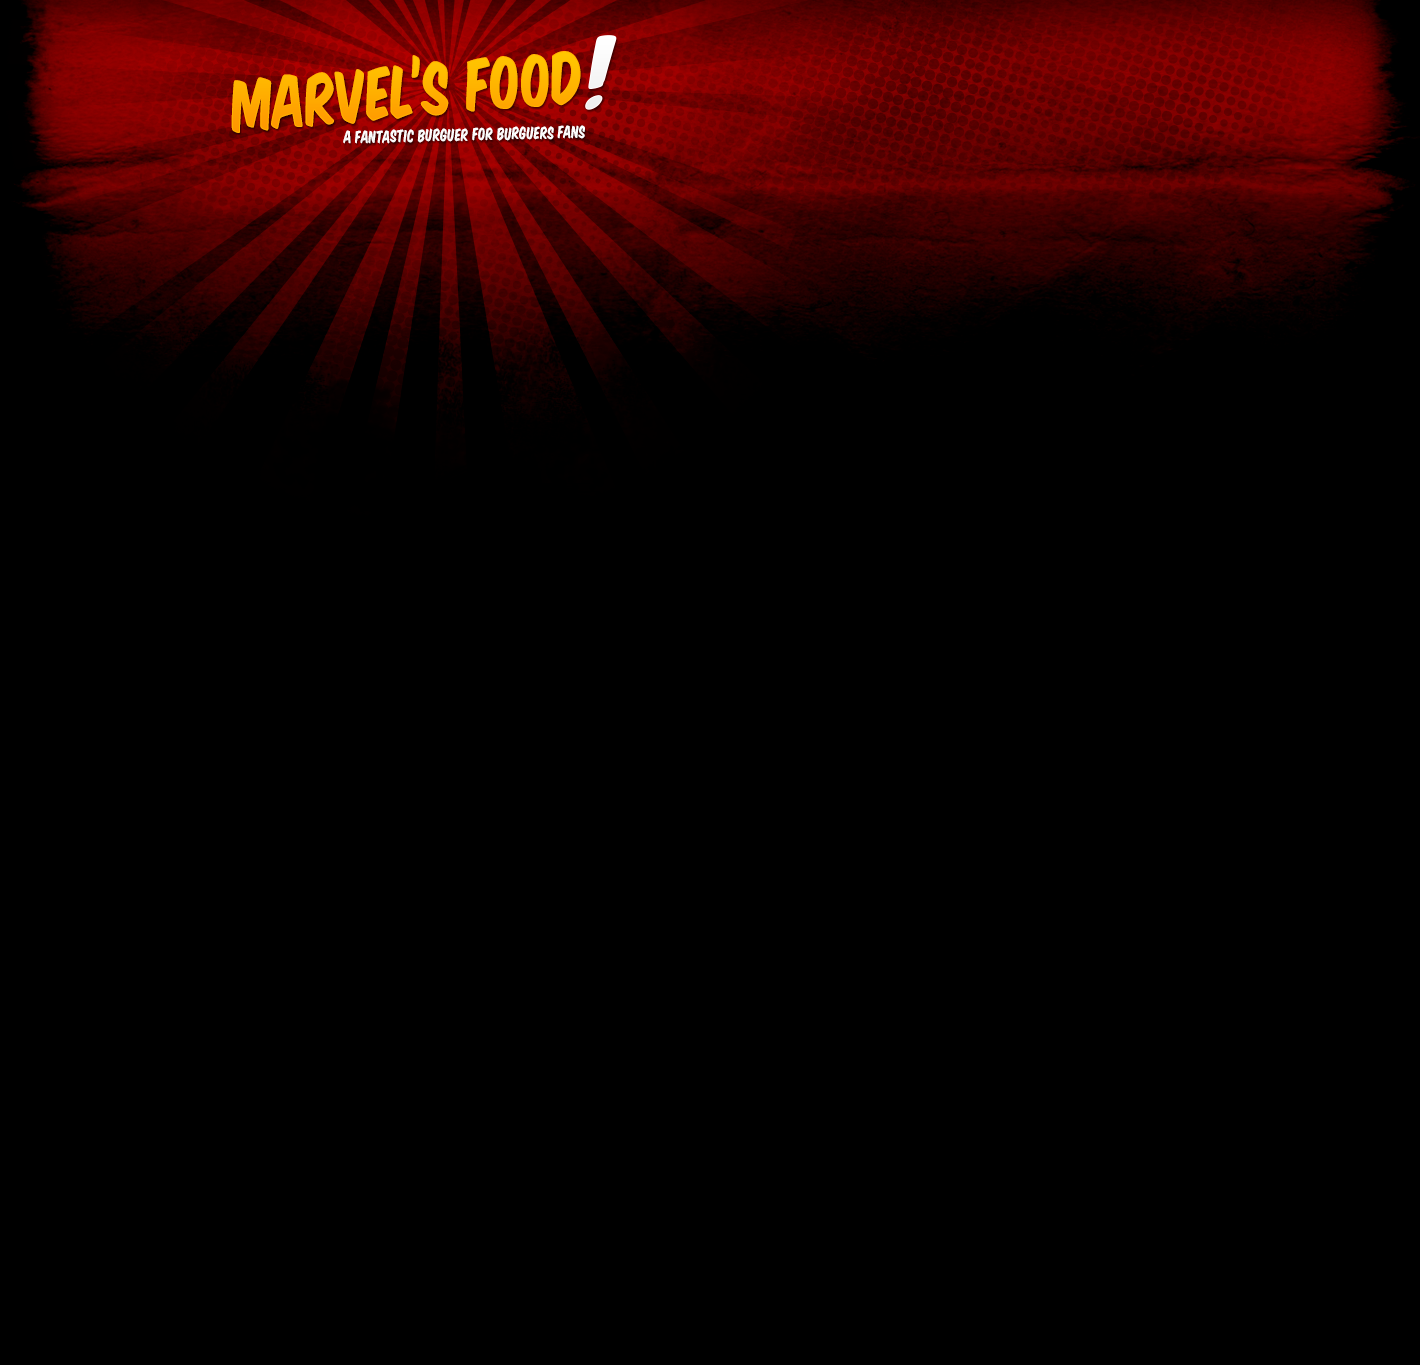
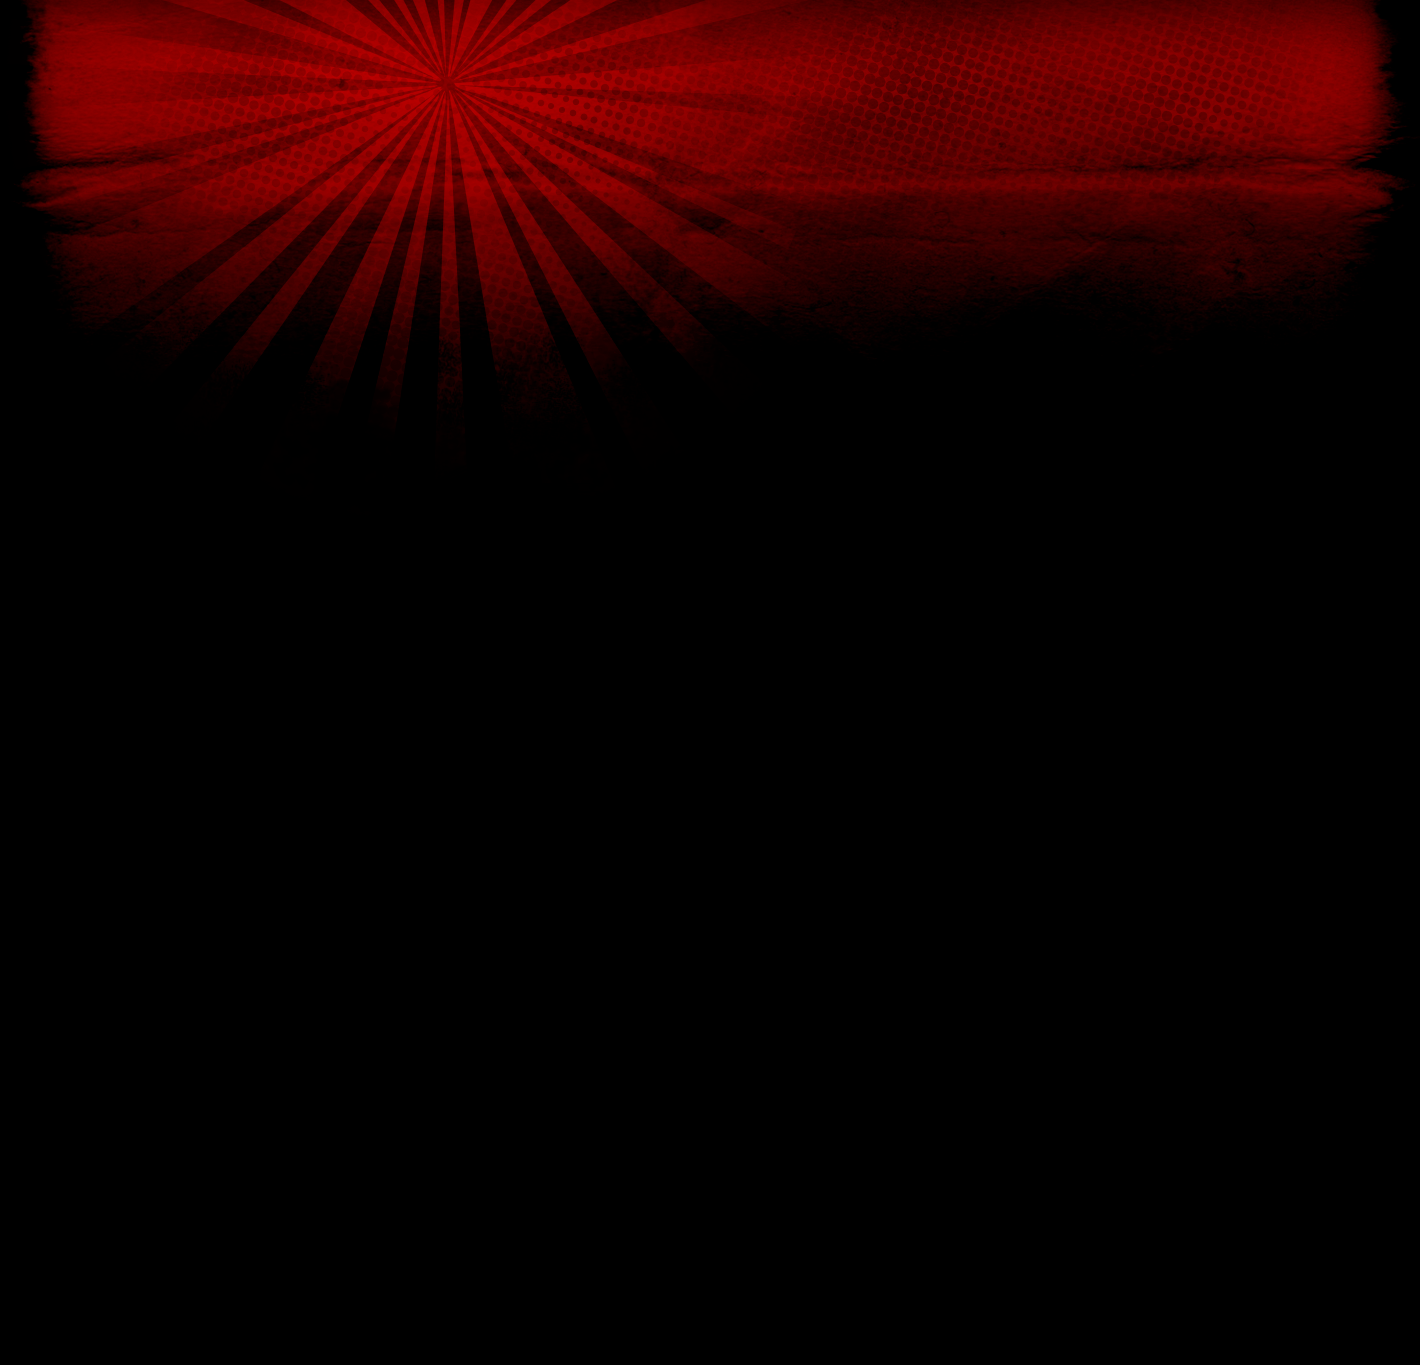
prototipo

Changed region(s): [[0.1549, 0.0308, 0.4338, 0.1231]]

diff --git a/index.html b/index.html
@@ -5,31 +5,44 @@
     <meta http-equiv="X-UA-Compatible" content="IE=edge">
     <meta name="viewport" content="width=device-width, initial-scale=1.0">
     <link rel="stylesheet" href="css/index.css">
+    <link rel="stylesheet" href="https://cdn.jsdelivr.net/npm/uikit@3.12.2/dist/css/uikit.min.css" />
      <!-- Bootstrap CSS -->
      <link href="css/bootstrap.min.css" rel="stylesheet">
     <title>Marvel`s Food</title>
 
 </head>
 <body>
-<div id="page">
-    <div  id="header">
-    
-   </div>
-    <div id="banner">
-        <div class="container">
 
-            <div class="row">
-                <div class="col-3">
+<div id="page">
+
+  <!-- TITULO -->
+    <div class=" conteiner-fluid"  id="header">
+      
+      <div class="row">
+        <div class="col-2"></div>
+        <div class="ml-2 mt-5 col ">
+          <img src="img/Logo.png" alt="" >
+        </div>
+    </div>
+ 
+   </div>
+ <!--FIN TITULO -->
+   
+ <!-- BANNER Y CAROUSEL -->
+   <div class="container d-none d-sm-none d-md-block" id="banner">
+       
+           <div class="row">
+                <div class="col-2">
 
                 </div>
-                <div class="col-6">
+                <div class="col-7">
                     <div id="carouselExampleControls" class="carousel slide" data-ride="carousel">
                         <div class="carousel-inner">
                           <div class="carousel-item active">
-                            <img style="height:251px;" class="d-block w-100"src="img/car2.jpg" alt="First slide">
+                            <img style="transform: rotate(-3deg)" class=" d-block w-100"src="img/test.png" alt="First slide">
                           </div>
                           <div class="carousel-item">
-                            <img class="d-block w-100" src="img/car1.jpg" alt="Second slide">
+                            <img style="transform: rotate(3deg)" class="d-block w-100" src="img/test.PNG"alt="Second slide">
                           </div>
                            </div>
                         <a class="carousel-control-prev" href="#carouselExampleControls" role="button" data-slide="prev">
@@ -41,27 +54,138 @@
                           <span class="sr-only">Next</span>
                         </a>
                       </div>
-
-               
+           
                 </div>
-                <div class="col-3">
-
-                </div>
-            </div>
-
-        </div>         
+               </div>           
      
    </div>
 
-    <div id="content">
-    
-   </div>
+   <div class="container d-block d-sm-block d-md-none" id="bannersm">
+       
+    <div class="row">
+         <div class="col-2">
 
-   <div id="footer">
-    
+         </div>
+         <div class="col-10">
+             <div id="carouselExampleControls" class="carousel slide" data-ride="carousel">
+                 <div class="carousel-inner">
+                   <div class="carousel-item active">
+                     <img class="d-block w-100"src="img/test.png" alt="First slide">
+                   </div>
+                   <div class="carousel-item">
+                     <img class="d-block w-100" src="img/test.PNG"Second slide">
+                   </div>
+                    </div>
+                 <a class="carousel-control-prev" href="#carouselExampleControls" role="button" data-slide="prev">
+                   <span class="carousel-control-prev-icon" aria-hidden="true"></span>
+                   <span class="sr-only">Previous</span>
+                 </a>
+                 <a class="carousel-control-next" href="#carouselExampleControls" role="button" data-slide="next">
+                   <span class="carousel-control-next-icon" aria-hidden="true"></span>
+                   <span class="sr-only">Next</span>
+                 </a>
+               </div>
+
+        
+         </div>
+      
+     </div>
+
+     
+
+</div>
+
+ <!--FIN BANNER Y CAROUSEL -->
+
+<div style=" background-color: black;" class="container" >
+  <div class="row">
+    <div class="col-md-4 mt-3">
+      <div class="card" style="width: 18rem; background-color: #191919; color: aliceblue;">
+        <img class="card-img-top" src="img/burguer1.PNG" alt="Card image cap">
+        <div class="card-body">
+          <h5 style="color: #ee9f00;" class="card-title">Captian America!</h5>
+          <p class="card-text">Chedar,Panceta,Huevo,Lechuga,Tomate,Mayonesa,Ketchup</p>
+          <a href="#footer" class="btn btn-primary">PEDIR!</a>
+        </div>
+      </div>
+    </div>
+    <div class="col-md-4 mt-3">
+      <div class="card" style="width: 18rem; background-color: #191919; color: aliceblue;">
+        <img class="card-img-top" src="img/burguer1.PNG" alt="Card image cap">
+        <div class="card-body">
+          <h5 style="color: #ee9f00;" class="card-title">Captian America!</h5>
+          <p class="card-text">Chedar,Panceta,Huevo,Lechuga,Tomate,Mayonesa,Ketchup</p>
+          <a href="#footer" class="btn btn-primary">PEDIR!</a>
+        </div>
+      </div>
+    </div>
+
+    <div class="col-md-4 mt-3">
+      <div class="card" style="width: 18rem; background-color: #191919; color: aliceblue;">
+        <img class="card-img-top" src="img/burguer1.PNG" alt="Card image cap">
+        <div class="card-body">
+          <h5 style="color: #ee9f00;" class="card-title">Captian America!</h5>
+          <p class="card-text">Chedar,Panceta,Huevo,Lechuga,Tomate,Mayonesa,Ketchup</p>
+          <a href="#footer" class="btn btn-primary">PEDIR!</a>
+        </div>
+      </div>
+    </div>
+    <div class="col-md-4 mt-3">
+      <div class="card" style="width: 18rem; background-color: #191919; color: aliceblue;">
+        <img class="card-img-top" src="img/burguer1.PNG" alt="Card image cap">
+        <div class="card-body">
+          <h5 style="color: #ee9f00;" class="card-title">Captian America!</h5>
+          <p class="card-text">Chedar,Panceta,Huevo,Lechuga,Tomate,Mayonesa,Ketchup</p>
+          <a href="#footer" class="btn btn-primary">PEDIR!</a>
+        </div>
+      </div>
+    </div>
+    <div class="col-md-4 mt-3">
+      <div class="card" style="width: 18rem; background-color: #191919; color: aliceblue;">
+        <img class="card-img-top" src="img/burguer1.PNG" alt="Card image cap">
+        <div class="card-body">
+          <h5 style="color: #ee9f00;" class="card-title">Captian America!</h5>
+          <p class="card-text">Chedar,Panceta,Huevo,Lechuga,Tomate,Mayonesa,Ketchup</p>
+          <a href="#footer" class="btn btn-primary">PEDIR!</a>
+        </div>
+      </div>
+    </div>
+
+    <div class="col-md-4 mt-3">
+      <div class="card" style="width: 18rem; background-color: #191919; color: aliceblue;">
+        <img class="card-img-top" src="img/burguer1.PNG" alt="Card image cap">
+        <div class="card-body">
+          <h5 style="color: #ee9f00;" class="card-title">Captian America!</h5>
+          <p class="card-text">Chedar,Panceta,Huevo,Lechuga,Tomate,Mayonesa,Ketchup</p>
+          <a href="#footer" class="btn btn-primary">PEDIR!</a>
+        </div>
+      </div>
+    </div>
+
+
+
+  </div>
+</div>
+
+
+  
+
+   <!-- FOOTER -->
+   <div class="container " id="footer">
+     <div class="row">
+       <div style="padding-top: 10%;" class="mt-5 ml-5 col">
+        <img src="img/telefono.png" alt="">
+       </div>
+   
+     </div>
+  
 </div>
 
 </div>
+<script src="https://code.jquery.com/jquery-3.2.1.slim.min.js" integrity="sha384-KJ3o2DKtIkvYIK3UENzmM7KCkRr/rE9/Qpg6aAZGJwFDMVNA/GpGFF93hXpG5KkN" crossorigin="anonymous"></script>
 <script src="js/bootstrap.bundle.min.js"></script>
+<script src="https://cdn.jsdelivr.net/npm/uikit@3.12.2/dist/js/uikit.min.js"></script>
+<script src="https://cdn.jsdelivr.net/npm/uikit@3.12.2/dist/js/uikit-icons.min.js"></script>
+
 </body>
 </html>

diff --git a/css/index.css b/css/index.css
@@ -1,6 +1,19 @@
-
+.test{
+  background-color: blue; 
+  opacity:50%;
+}
+.test2{
+  background-color: red; 
+  opacity:50%;
+}
 body {
-    background-image: url(../img/fondo.png);
+
+background-image: url(../img/fondo2.png);
+   
+
+
+
+  
 }
 #header{
     height:170px;
@@ -9,13 +22,22 @@ body {
        margin-bottom: 1px;
 }
 #banner{
-    height:270px;
+    
      
      background-image: url(../img/banner.png);
      background-repeat: no-repeat;
-       margin-left: 15%;
+
+       margin-left: 10%;
        margin-right: 10%;
-       margin-top: 1%;
+       margin-top: 3%;
+
+}
+#bannersm{
+    
+
+    margin-left: 10%;
+    margin-right: 10%;
+    margin-top: 3%;
 
 }
 #content{
